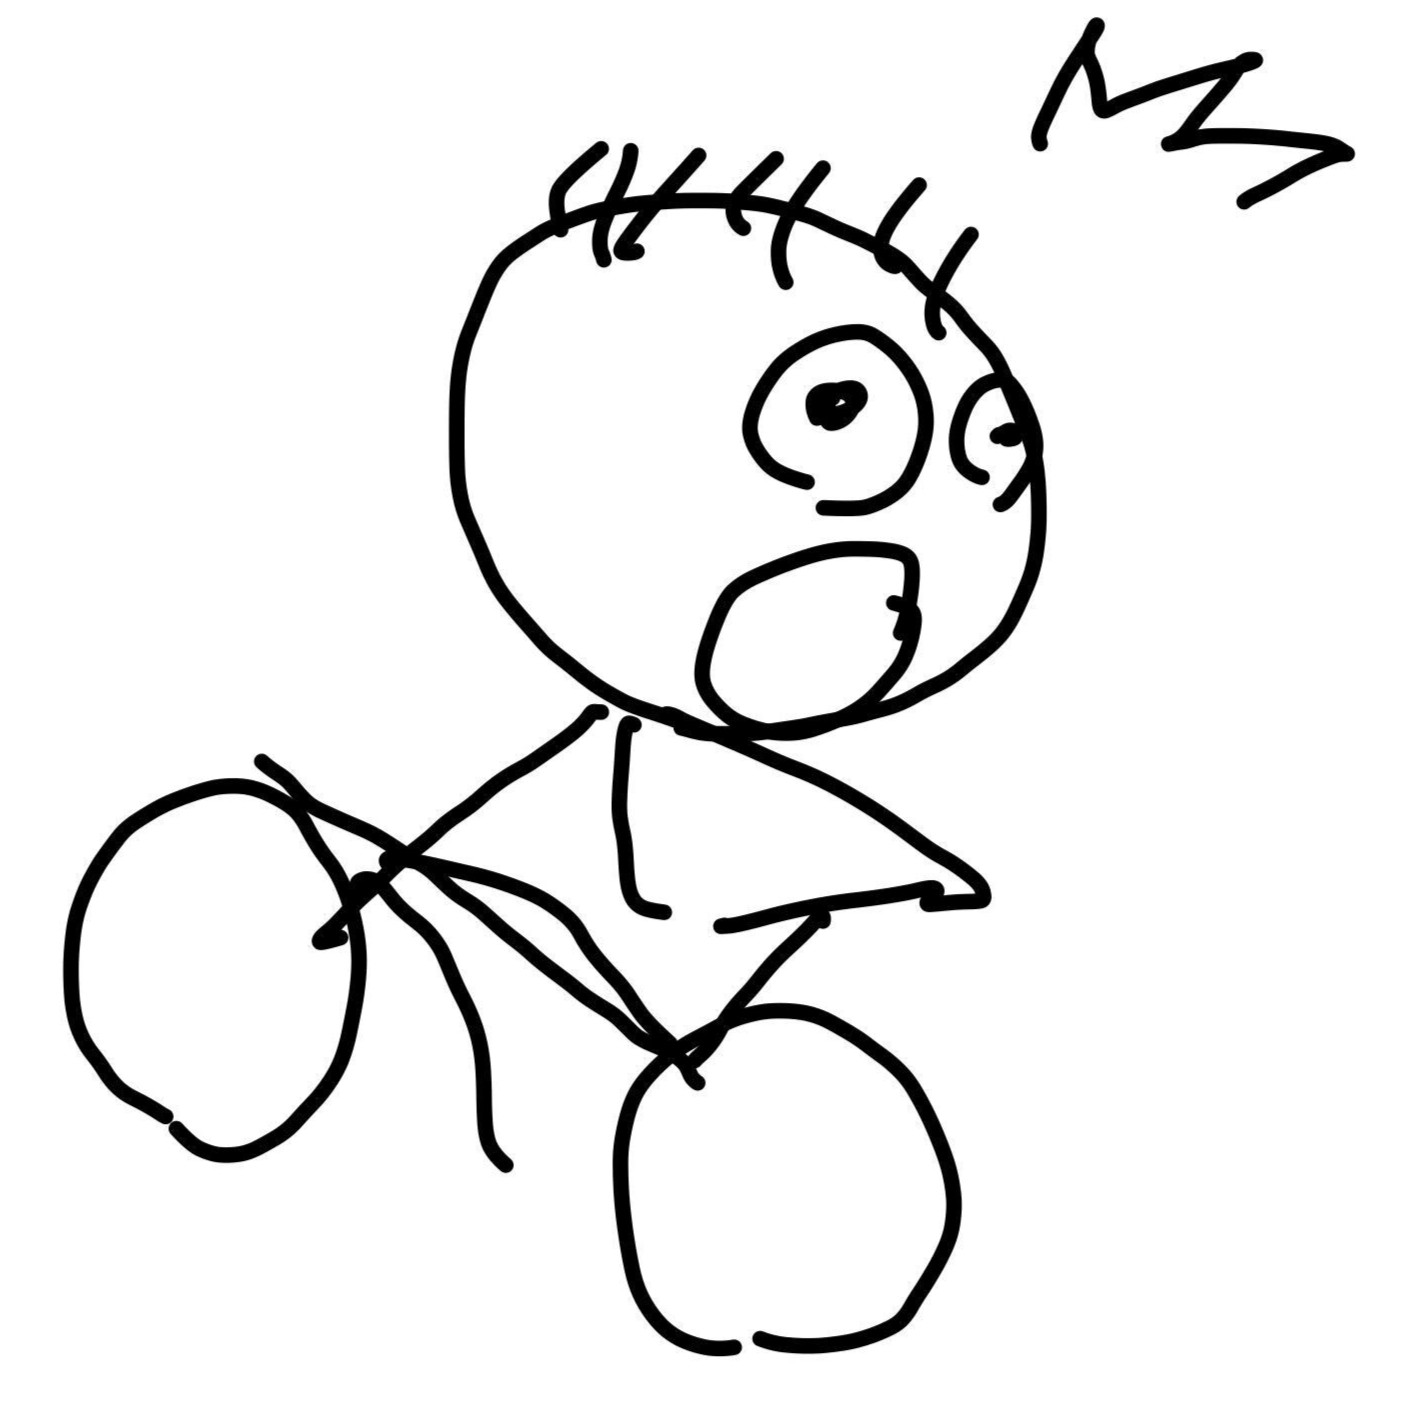
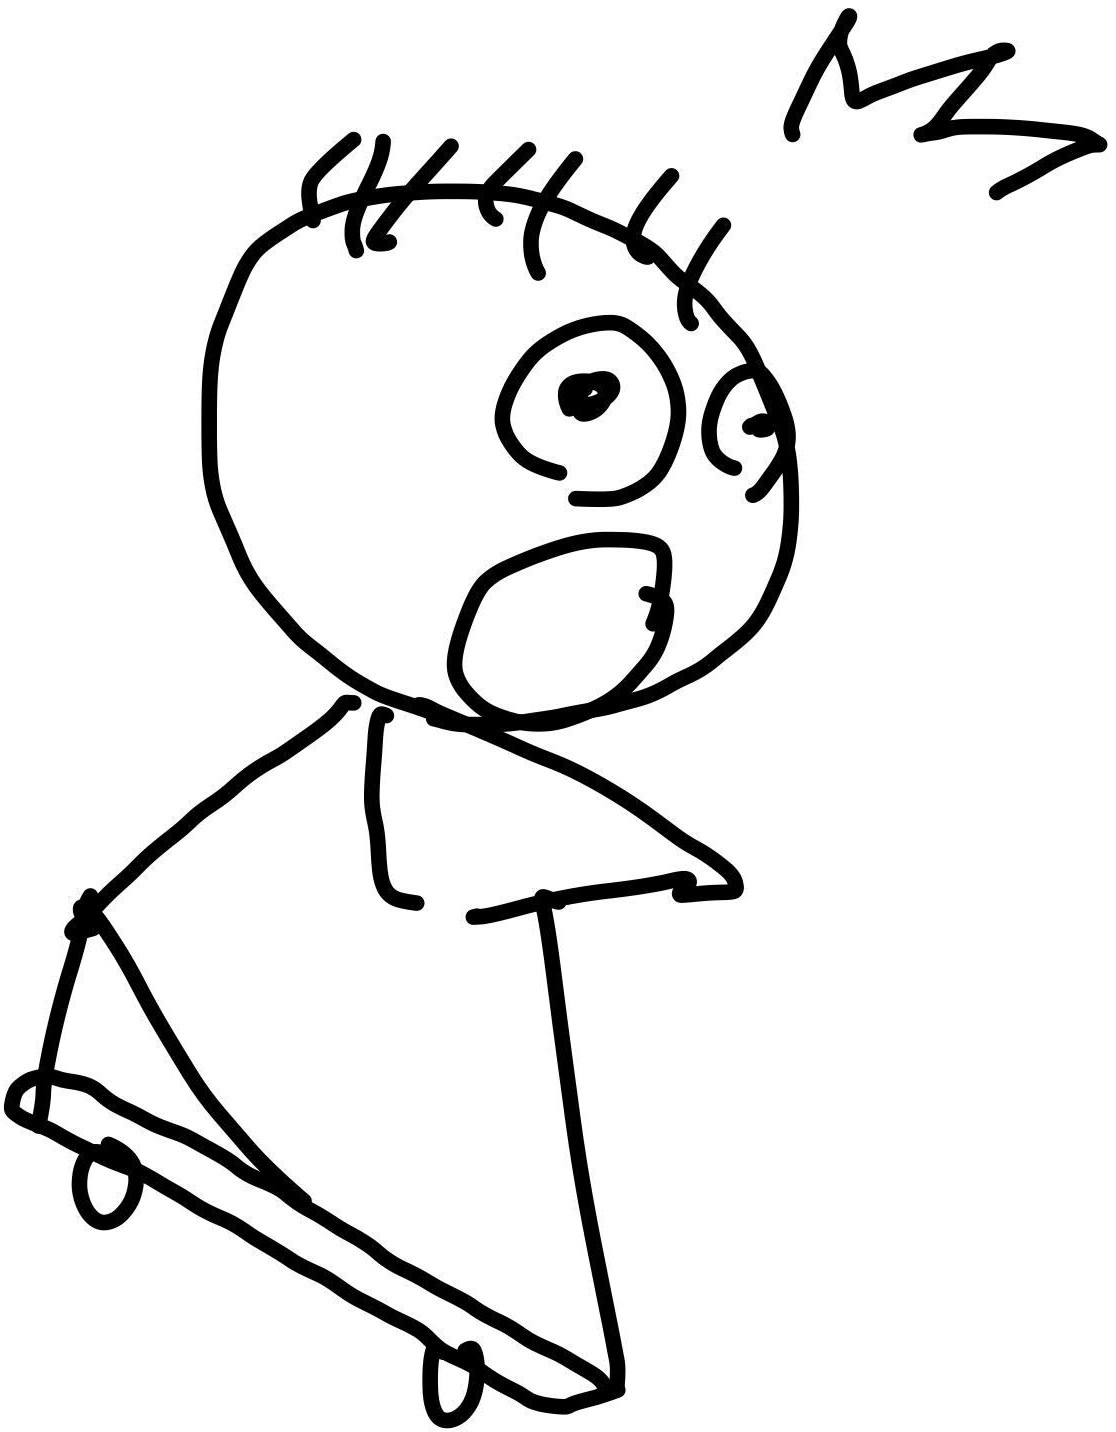
WorksPage and Scroll

Changed region(s): [[0.0, 0.093, 0.7616, 1.0], [0.7007, 0.0, 1.0, 0.1549], [0.3047, 0.2169, 0.3656, 0.4338]]

diff --git a/src/pages/WorksPage.jsx b/src/pages/WorksPage.jsx
@@ -1,22 +1,62 @@
 import React from 'react';
 import WorkCard from '../components/WorkCard';
 import styles from './WorksPage.module.css';
+import giant from '../assets/giant.jpg';
+import oba from '../assets/oba.png';
+import SNR from '../assets/SNR.png';
+import portfolio_icon from '../../public/portfolio_icon.png';
+import logo_eye from '../assets/logo-eye.png';
+import lazy from '../assets/lazy.png';
+import kikikan from '../assets/kikikan.png';
 
-// 将来的に増える作品データ (今はダミー)
 const worksData = [
   {
     id: 1,
-    title: 'aaa',
-    description: 'aaaaaaaaaaaaaaaa aaaaaaaaaaaaaaaa',
-    imageUrl: '', // 画像パス
-    tags: ['React', 'CSS']
+    title: 'kikikan',
+    description: '人生で初めて開発に参加したアプリです。大学のサークルの新歓ハッカソンで開発しました。開発は先輩様様で、僕は缶の配置をいじるくらいしかできませんでした。',
+    imageUrl: kikikan,
+    tags: ['HTML', 'CSS'],
+    url: ''
   },
   {
     id: 2,
-    title: '作品B',
-    description: 'これは2つ目の作品です。',
-    imageUrl: '',
-    tags: ['Vite', 'JavaScript']
+    title: '安心打診おばあ',
+    description: 'サークルの先輩とJPHACKS2024で開発した作品です。全国大会に進出し、三菱重工業スポンサー賞、NTTドコモスポンサー賞を受賞しました。右も左もわからず飛び込んだだけなので技術面では全く貢献できませんでしたが、アイデア面では頑張りました。東京に行った経験は大きな糧になりました。',
+    imageUrl: oba, // 画像パス
+    tags: ['Flask', 'Python'],
+    url: 'https://jphacks.github.io/ng_2406/'
+  },
+  {
+    id: 3,
+    title: 'make you lazy',
+    description: '大学2年生となり、先輩として新歓ハッカソンに参加した際の作品です。先輩として教える立場を目指していましたがまだまだ教わる立場でアイデア・企画部分でしかあまり貢献できませんでした。',
+    imageUrl: lazy,
+    tags: ['Vite', 'JavaScript'],
+    url: 'https://github.com/jack-app/jackHack2025_C'
+  },
+  {
+    id: 4,
+    title: 'ドキドキ☆恋愛コンタクト',
+    description: '技育CAMP2025ハッカソンvol.7でおばあの時のメンバーと開発した作品です。今回は「自力でフロントを担当しました」といえることを目標にしましたがレスポンシブデザインなどうまくできませんでした。',
+    imageUrl: logo_eye,
+    tags: ['Vite', 'JavaScript'],
+    url: 'https://github.com/waka320/comminucation-adv'
+  },
+  {
+    id: 5,
+    title: 'SNR ~SNSの一歩前~',
+    description: '同級生とJPHACKS2025で開発した作品です。三菱重工業スポンサー賞を受賞しました。フロントエンドを担当し、今までよりも確実に開発に貢献できたと思います。企画・アイデア面でも大きく貢献できたと思います。全国大会に向けて現在、絶賛開発中です!',
+    imageUrl: SNR,
+    tags: ['Vite+React', 'JavaScript', 'FastAPI', 'Python'],
+    url: 'https://github.com/jphacks/ng_2502/'
+  },
+  {
+    id: 6,
+    title: 'ポートフォリオ',
+    description: 'このポートフォリオです。初のソロ作品です。完成を目標にし、作りながら学んでいます。',
+    imageUrl: portfolio_icon,
+    tags: ['Vite+React', 'JavaScript'],
+    url: 'https://portfolio-eight-ecru-29.vercel.app/'
   },
 ];
 
@@ -25,10 +65,19 @@ const WorksPage = () => {
     <div className={styles.pageContainer}>
       <div className={styles.heroSection}>
         {/* デザイン案のヒーローイラスト部分 */}
-        <h2>Works</h2>
+        <img 
+          src={giant} 
+          alt="giant illustration" 
+          className={styles.giantImage} 
+        />
       </div>
 
-      <div className={styles.worksList}>
+      <a href="#works-list" className={styles.scrollIndicator}>
+        Scroll
+        <div>↓↓↓</div>
+      </a>
+
+      <div className={styles.worksList} id="works-list">
         {/* worksDataをmapで回してWorkCardを生成 */}
         {worksData.map(work => (
           <WorkCard
@@ -37,6 +86,7 @@ const WorksPage = () => {
             description={work.description}
             imageUrl={work.imageUrl}
             tags={work.tags}
+            url={work.url}
           />
         ))}
       </div>

diff --git a/src/pages/HomePage.jsx b/src/pages/HomePage.jsx
@@ -2,25 +2,28 @@ import React from 'react';
 import { Link } from 'react-router-dom';
 import styles from './HomePage.module.css'; // CSS Modulesをインポート
 import aboutPreview from '../assets/Baby.jpg';
+import worksPreview from '../assets/giant.jpg';
 
 // イラストをインポート（src/assets フォルダなどに入れる）
 import portfolio_icon from '../assets/portfolio_icon.jpg'; 
+import ScrollToTop from '../components/ScrollToTop';
 
 const HomePage = () => {
   return (
     <div className={styles.homeContainer}>
+      <ScrollToTop />
       {/* === セクション1: アイコン === */}
       <section className={styles.heroSection}>
         <h1 className={styles.title}>Welcome to Sota Hashimoto's portfolio!</h1>
         <img src={portfolio_icon} alt="Welcome face" className={styles.portfolio_icon} />
         <p className={styles.subtitle}>August 2025. I start my journey from this portfolio.</p>
-        <div className={styles.scrollIndicator}>
+        <a href="#nav-section" className={styles.scrollIndicator}>
           Scroll ↓
-        </div>
+        </a>
       </section>
 
       {/* === セクション2: ナビゲーション === */}
-      <section className={styles.navSection}>
+      <section className={styles.navSection} id="nav-section">
         <Link
           to="/about"
           className={styles.navBlock}
@@ -32,9 +35,16 @@ const HomePage = () => {
           }}>
           <h2>About</h2>
         </Link>
-        <Link to="/works" className={styles.navBlock}>
+        <Link
+          to="/works"
+          className={styles.navBlock}
+          style={{
+            backgroundImage: `
+              linear-gradient(rgba(0, 0, 0, 0.5), rgba(0, 0, 0, 0.5)), 
+              url(${worksPreview})
+            `
+          }}>
           <h2>Works</h2>
-          <span className={styles.comingSoon}>作成中</span>
         </Link>
         <Link to="/skills" className={styles.navBlock}>
           <h2>Skills</h2>

diff --git a/src/components/WorkCard.jsx b/src/components/WorkCard.jsx
@@ -1,23 +1,40 @@
 import styles from './WorkCard.module.css';
 
 // props (引数) で作品データを受け取る
-const WorkCard = ({ title, description, imageUrl, tags }) => {
+const WorkCard = ({ title, description, imageUrl, tags, url }) => {
+
+  const Tag = url ? 'a' : 'div';
+  // ↓ 3. タグに渡すプロパティ（属性）を準備します
+  const cardProps = {
+    className: styles.card,
+    ...(url && { // urlがある時だけ、以下の属性を追加します
+      href: url,
+      target: '_blank', // リンクを新しいタブで開く
+      rel: 'noopener noreferrer' // セキュリティのための決まり文句
+    })
+  };
+
   return (
-    <div className={styles.card}>
+    <Tag {...cardProps}>
       <div className={styles.imagePlaceholder}>
-        {/* <img src={imageUrl} alt={title} /> */}
+        {imageUrl ? (
+          <img src={imageUrl} alt={title} className={styles.workImage} />
+        ) : (
+          <span>(画像なし)</span>
+        )}
       </div>
       <div className={styles.content}>
         <h3>{title}</h3>
         <p>{description}</p>
         <div className={styles.tags}>
-          {/* タグも配列で渡してmapで表示するのが良い */}
-          {/* {tags.map(tag => <span key={tag}>{tag}</span>)} */}
-          <span className={styles.tagPlaceholder}>Tag 1</span>
-          <span className={styles.tagPlaceholder}>Tag 2</span>
+          {tags.map(tag => (
+            <span key={tag} className={styles.tagPlaceholder}>
+              {tag}
+            </span>
+          ))}
         </div>
       </div>
-    </div>
+    </Tag>
   );
 };
 export default WorkCard;

diff --git a/src/pages/AboutPage.module.css b/src/pages/AboutPage.module.css
@@ -70,7 +70,7 @@
 }
 
 .Baby {
-  width: 200px; /* ←デザインに合わせて調整 */
+  width: 150px; /* ←デザインに合わせて調整 */
   height: auto;
   border-radius: 8px;
 }
@@ -97,6 +97,20 @@
   width: 250px; /* ←デザインに合わせて調整 */
   height: auto;
   border-radius: 8px;
+}
+
+/* ダークモードに対応する場合の設定
+*/
+@media (prefers-color-scheme: dark) {
+  .textBox {
+    color: black;
+  }
+  .intro {
+    color: white;
+  }
+  .outro {
+    color: white;
+  }
 }
 
 /* === PC・タブレット用 (幅が768px以上) === */
@@ -161,6 +175,20 @@
     margin-top: -1.5rem; /* 最後の線と少し重ねる */
   }
   
+  /* ダークモードに対応する場合の設定
+  */
+  @media (prefers-color-scheme: dark) {
+    /* 線の本体 */
+    .timelineConnector::before {
+      background-color: white;
+    }
+  
+    /* デザイン案の矢印 */
+    .scrollArrow {
+      color: white;
+    }
+  }
+
   /* 1行目のイラストを中央揃えにするための微調整 */
   .gridItemLeft:first-child {
      align-items: center; 

diff --git a/src/pages/AboutPage.jsx b/src/pages/AboutPage.jsx
@@ -40,7 +40,7 @@ const AboutPage = () => {
             <h3>2005~ 幼少期</h3>
             <p>
               保育園に通っていました。
-              自転車で坂を勢いよく下りてこけ、顔が血だらけになりました。
+              キックボードで坂を勢いよく下りてこけ、顔が血だらけになりました。
               好きな食べ物はキャベツの千切りでした。
             </p>
           </div>
@@ -151,7 +151,7 @@ const AboutPage = () => {
             <p>
               情報学部に所属し、情報学の基礎について学んでいます。
               プログラミングサークルに所属し、JPHACKSや技育CAMPハッカソンなど外部のハッカソンなどにも参加しています。
-              真面目に生きています。
+              真面目に生きていますと書いていましたが、作成中の現在、原付で単独スリップしました。
             </p>
           </div>
         </div>

diff --git a/src/pages/WorksPage.module.css b/src/pages/WorksPage.module.css
@@ -7,7 +7,26 @@
 .heroSection {
   /* ... デザイン案のイラスト部分のスタイル ... */
   text-align: center;
-  margin-bottom: 3rem;
+  margin-bottom: 1rem;
+}
+
+.giantImage {
+  width: 100%; /* 親要素の幅いっぱいに */
+  max-width: 1200px; /* PCで見た時に大きくなりすぎないように制御 */
+  height: auto; /* 縦横比を保つ */
+  display: block; /* 中央寄せのために block 要素にする */
+  margin: 0 auto; /* 中央寄せ */
+}
+
+.scrollIndicator {
+  display: block;
+  text-align: center;
+  font-size: 1.2rem;
+  font-weight: bold;
+  color: #333;
+  margin-bottom: 3rem; /* 作品リストとの間に余白 */
+  text-decoration: none;
+  color: #333; /* 色を再指定 */
 }
 
 .worksList {

diff --git a/src/components/ScrollToTop.jsx b/src/components/ScrollToTop.jsx
@@ -1,0 +1,18 @@
+import { useEffect } from 'react';
+import { useLocation } from 'react-router-dom';
+
+function ScrollToTop() {
+  // 1. 現在のURL情報を取得
+  const { pathname } = useLocation();
+
+  // 2. pathname (URLのパス) が変更されるたびに...
+  useEffect(() => {
+    // 3. ページの(x: 0, y: 0) の位置にスクロールする
+    window.scrollTo(0, 0);
+  }, [pathname]); // <-- 依存配列に pathname を指定
+
+  // 4. このコンポーネント自体は何も表示しない
+  return null;
+}
+
+export default ScrollToTop;

diff --git a/src/components/WorkCard.module.css b/src/components/WorkCard.module.css
@@ -31,9 +31,12 @@
   font-size: 0.9rem;
 }
 
-/* もし実際の画像を入れる場合は、.imagePlaceholder を .imageContainer に変え、
-  中のimgタグに .image { width: 100%; height: auto; display: block; } などを適用します
-*/
+
+.workImage {
+  width: 100%;
+  height: 100%; /* 親 (.imagePlaceholder) の高さに合わせる */
+  object-fit: cover; /* 画像の比率を保ったまま枠に収める */
+}
 
 /* テキストコンテンツ部分 */
 .content {

diff --git a/src/pages/HomePage.module.css b/src/pages/HomePage.module.css
@@ -39,10 +39,18 @@
   margin-top: 0.5rem;
 }
 
+@media (prefers-color-scheme: dark) {
+  .subtitle {
+    color: white;
+  }
+}
+
 .scrollIndicator {
   position: absolute; /* 画面下部に固定 */
   bottom: 2rem;
   font-size: 0.9rem;
+  text-decoration: none; /* リンクの下線を消す */
+  color: #555;
 }
 
 /* ナビゲーションセクション */

diff --git a/src/AppLayout.jsx b/src/AppLayout.jsx
@@ -1,9 +1,11 @@
 import { Outlet } from 'react-router-dom';
 import Header from './components/Header';
+import ScrollToTop from './components/ScrollToTop';
 
 const AppLayout = () => {
   return (
     <div>
+      <ScrollToTop />
       <Header />
       <main>
         <Outlet /> {/* ここにAboutPageやWorksPageなどが入る */}

diff --git a/src/index.css b/src/index.css
@@ -1,3 +1,6 @@
+html {
+  scroll-behavior: smooth;
+}
 :root {
   font-family: system-ui, Avenir, Helvetica, Arial, sans-serif;
   line-height: 1.5;
